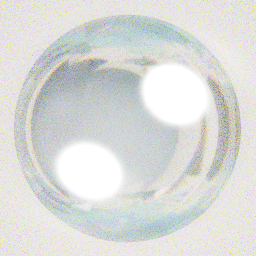
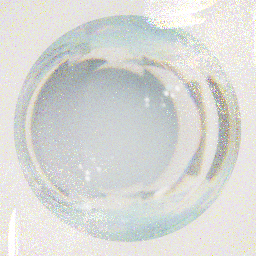
iter3: add source-driven flare kernel for anamorphic streaks
New flare_kernel traces rays from light sources through the lens system to
the sensor plane using probabilistic Fresnel sampling. Uses atomic_float
for concurrent pixel splatting. The anamorphic cylinder should naturally
create directional flare spread.

Current state: flare produces bright blobs at expected positions from two
specular-only lights, but blobs are ~2:1 aspect ratio (weakly anamorphic)
rather than long horizontal streaks. Need to investigate why the cylinder
element doesn't create stronger directional spread.

Also: ghost_boost=0 to isolate flare, flare_boost=50000 to make visible.
Amp-Thread-ID: https://ampcode.com/threads/T-019cf76e-d9d2-73dd-b5de-087a32ea3a7c

diff --git a/metal_tracer.m b/metal_tracer.m
@@ -82,6 +82,7 @@ static id<MTLCommandQueue>        mtl_queue;
 static id<MTLComputePipelineState> mtl_pipeline;
 static id<MTLComputePipelineState> mtl_ghost_pipeline;
 static id<MTLComputePipelineState> mtl_detect_bright_pipeline;
+static id<MTLComputePipelineState> mtl_flare_pipeline;
 static int gpu_ready = 0;
 
 int gpu_init(void) {
@@ -152,6 +153,15 @@ int gpu_init(void) {
             mtl_detect_bright_pipeline = [mtl_device newComputePipelineStateWithFunction:detect_fn error:&error];
             if (!mtl_detect_bright_pipeline) {
                 fprintf(stderr, "Metal: detect_bright pipeline error: %s\n",
+                        [[error localizedDescription] UTF8String]);
+            }
+        }
+
+        id<MTLFunction> flare_fn = [library newFunctionWithName:@"flare_kernel"];
+        if (flare_fn) {
+            mtl_flare_pipeline = [mtl_device newComputePipelineStateWithFunction:flare_fn error:&error];
+            if (!mtl_flare_pipeline) {
+                fprintf(stderr, "Metal: flare pipeline error: %s\n",
                         [[error localizedDescription] UTF8String]);
             }
         }
@@ -504,6 +514,50 @@ void gpu_ray_trace_to_pixels(sceneT *scene, int width, int height,
             }
             fprintf(stderr, "  ghost debug: emissive_hits=%.0f max_gw=%.6f contrib=%.4f (max=%.4f)\n",
                     total_emissive, max_gw, total_contrib, max_contrib);
+        }
+
+        // Dispatch flare kernel (source-driven anamorphic streaks)
+        if (ghost_rays && mtl_flare_pipeline) {
+            size_t flare_size = sizeof(float) * width * height * 3;
+            id<MTLBuffer> flare_buf = [mtl_device newBufferWithLength:flare_size
+                                                              options:MTLResourceStorageModeShared];
+            memset([flare_buf contents], 0, flare_size);
+
+            int samples_per_light = 262144;  // must match tracer.metal
+            int total_flare_threads = gpu_scene.num_lights * samples_per_light;
+
+            NSUInteger fw = [mtl_flare_pipeline threadExecutionWidth];
+            MTLSize flare_grid = MTLSizeMake(total_flare_threads, 1, 1);
+            MTLSize flare_group = MTLSizeMake(fw, 1, 1);
+
+            id<MTLCommandBuffer> flare_cmd = [mtl_queue commandBuffer];
+            id<MTLComputeCommandEncoder> flare_enc = [flare_cmd computeCommandEncoder];
+            [flare_enc setComputePipelineState:mtl_flare_pipeline];
+            [flare_enc setBuffer:scene_buf offset:0 atIndex:0];
+            [flare_enc setBuffer:flare_buf offset:0 atIndex:1];
+            [flare_enc dispatchThreads:flare_grid threadsPerThreadgroup:flare_group];
+            [flare_enc endEncoding];
+
+            struct timeval fs, fe;
+            gettimeofday(&fs, NULL);
+            [flare_cmd commit];
+            [flare_cmd waitUntilCompleted];
+            gettimeofday(&fe, NULL);
+            float flare_ms = ((fe.tv_sec - fs.tv_sec) * 1000.0f +
+                             (fe.tv_usec - fs.tv_usec) / 1000.0f);
+
+            // Accumulate flare into output
+            float *fb = (float *)[flare_buf contents];
+            float *out = (float *)[output_buf contents];
+            float max_flare = 0;
+            int flare_pixels = 0;
+            for (int i = 0; i < width * height * 3; i++) {
+                if (fb[i] > 0) flare_pixels++;
+                if (fb[i] > max_flare) max_flare = fb[i];
+                out[i] += fb[i];
+            }
+            fprintf(stderr, "  flare pass: %.1fms  flare_pixels=%d  max_flare=%.4f\n",
+                    flare_ms, flare_pixels / 3, max_flare);
         }
 
         // Read back and convert